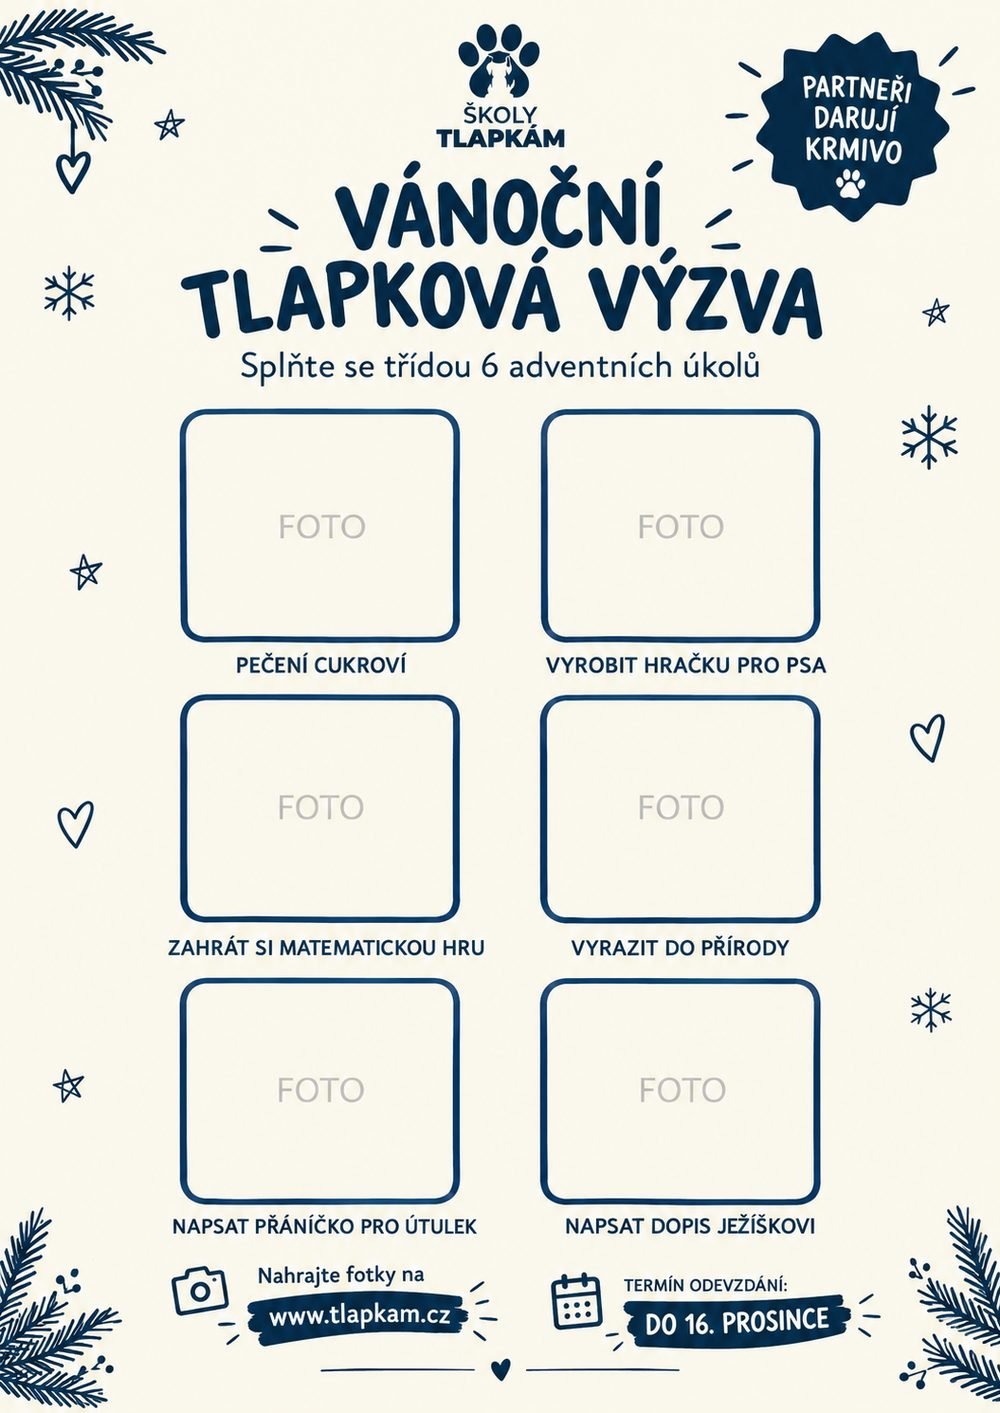
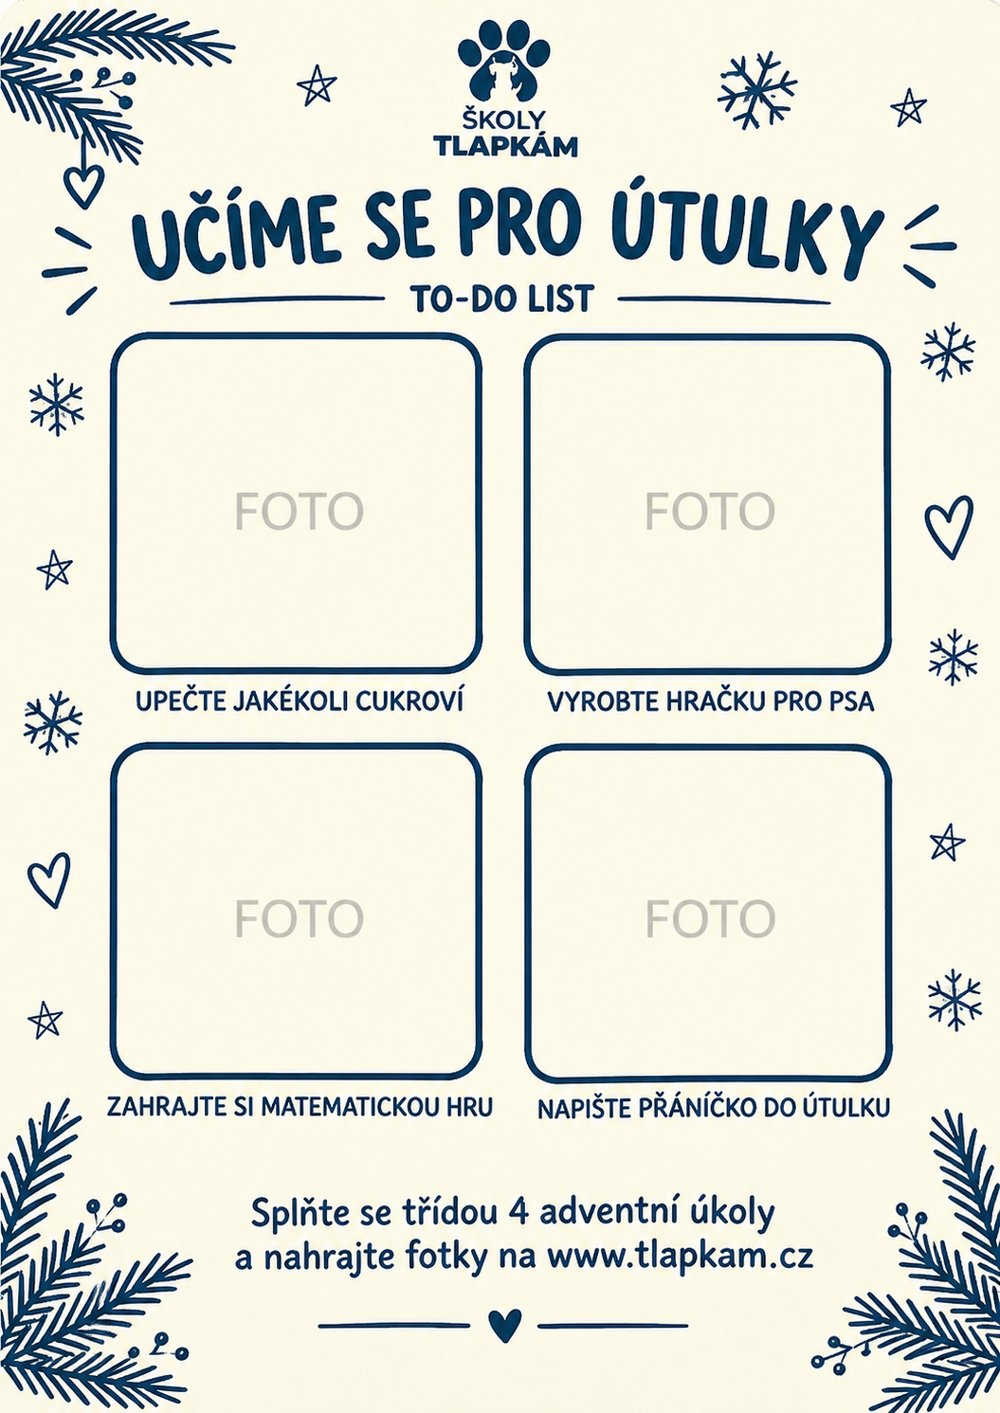
Podklady 3. 11.: styly (partneři, galerie, Instagram) a nový náhled To-Do listu

diff --git a/assets/style.css b/assets/style.css
@@ -192,3 +192,16 @@ footer .legal a{color:#C9D6E2}
   .hero-photo{order:-1;aspect-ratio:4/3}
 }
 .feature .tag{align-self:flex-start;background:var(--yellow);color:var(--navy-deep);font-family:var(--f-display);font-weight:700;font-size:.66rem;letter-spacing:.1em;padding:5px 10px;border-radius:7px}
+
+/* Instagram, partneři, galerie (3. 11.) */
+footer a.ig{display:inline-flex;align-items:center;gap:6px}
+footer a.ig svg,.contact-box .line a+svg{width:16px;height:16px}
+.partners .plogo{height:46px;width:auto;display:block}
+.partner-note{display:flex;align-items:center;gap:14px;padding-top:6px;border-top:1px solid var(--line)}
+.partner-note span{font-family:var(--f-display);font-weight:600;font-size:.7rem;letter-spacing:.14em;text-transform:uppercase;color:var(--muted)}
+.partner-note img{height:34px;width:auto}
+.gallery{display:grid;grid-template-columns:repeat(4,1fr);gap:14px;margin-top:22px}
+.gallery figure{margin:0;aspect-ratio:4/3;border-radius:var(--radius-sm);overflow:hidden;border:1px solid var(--line);background:var(--panel)}
+.gallery img{width:100%;height:100%;object-fit:cover;display:block}
+.gallery figure.ph{display:grid;place-items:center;border-style:dashed;background:transparent;color:var(--muted);font-size:.8rem;text-align:center}
+@media (max-width:860px){.gallery{grid-template-columns:repeat(2,1fr)}}
